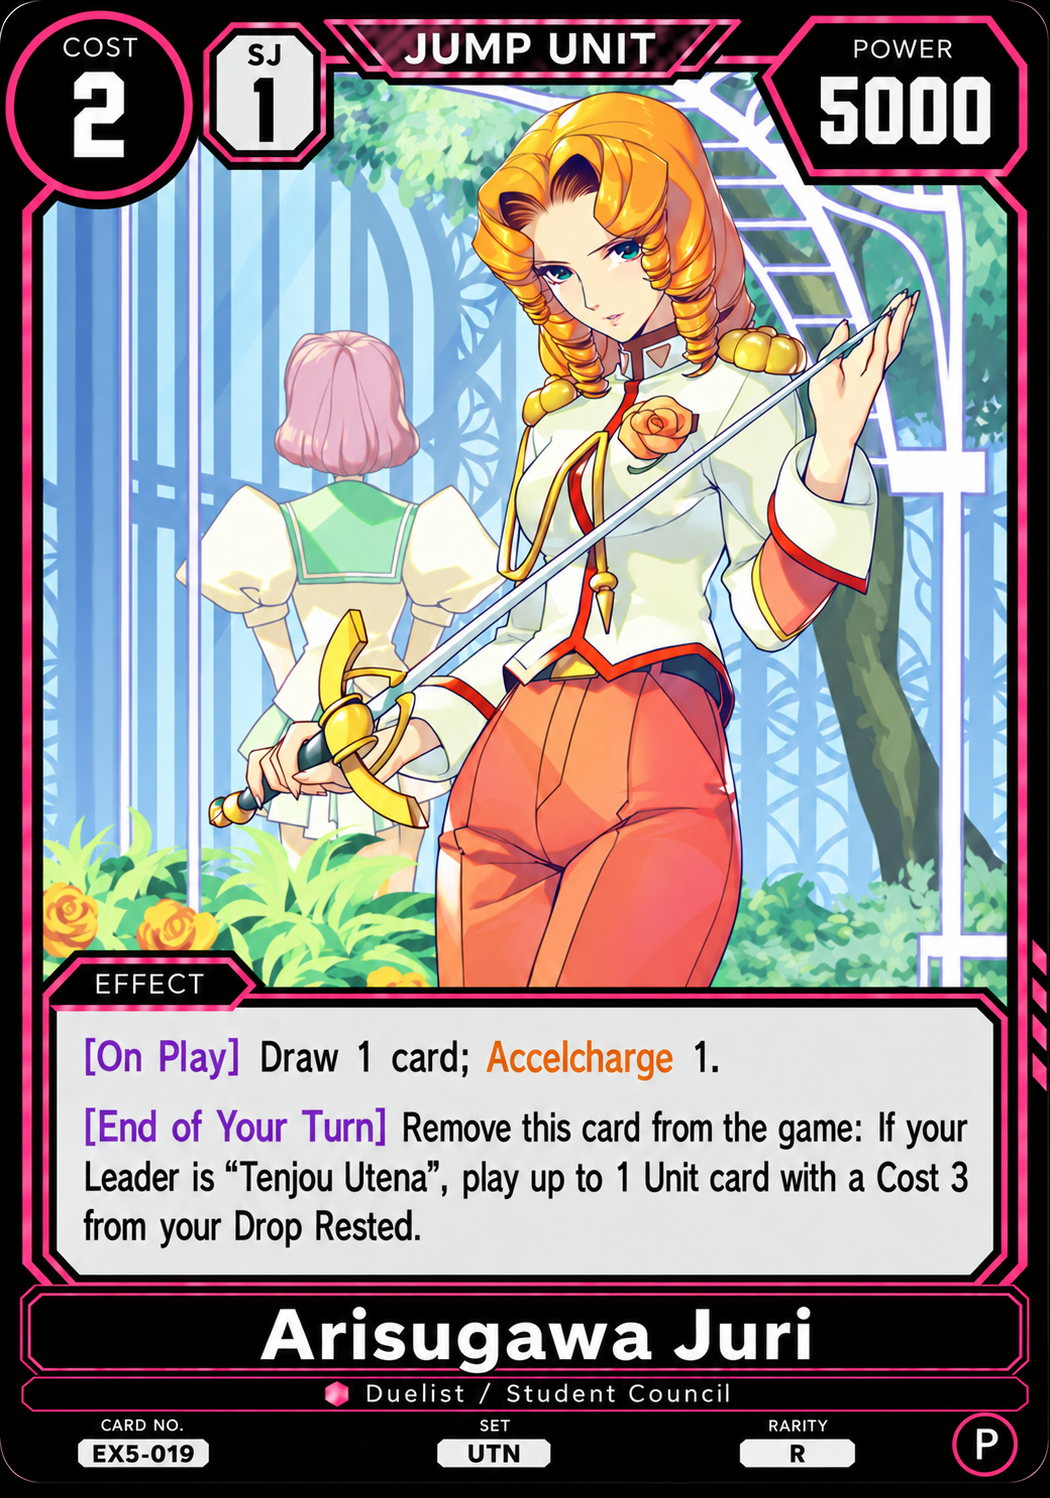
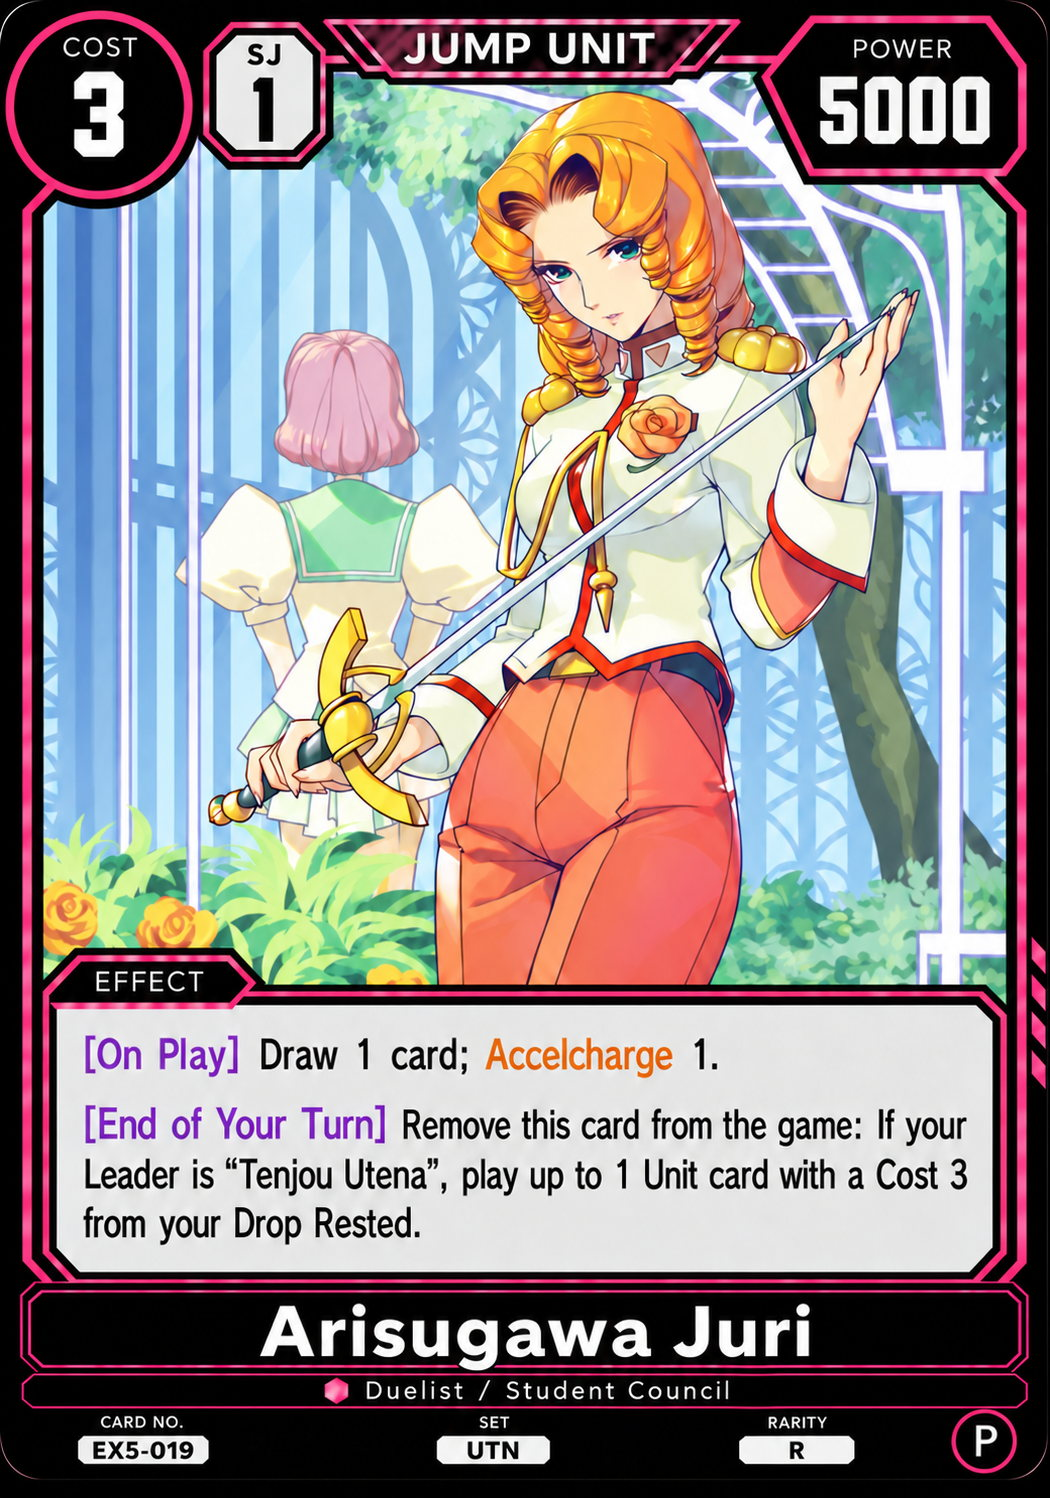
Refresh Budding Jubilation, Anthy, and Juri prints

diff --git a/card-text-data.js b/card-text-data.js
@@ -2289,8 +2289,8 @@ window.SJTCG_CARD_TEXT = {
     "set": "SMK",
     "rarity": "C",
     "bottom_right_circle": "B",
-    "effect": "Clash [Activate: Battle] Give your card that's in a battle Revenge for the battle. Then, if your Unit is removed from your field at the end of the battle, draw 1 card.",
-    "effect_html": "<span class=\"kw kw-green\" title=\"Clash\">Clash</span> <span class=\"kw kw-purple\" title=\"Timing window\">[Activate: Battle]</span> Give your card that&#x27;s in a battle <span class=\"kw kw-red\" title=\"Revenge\">Revenge</span> for the battle. Then, if your Unit is removed from your field at the end of the battle, draw 1 card.",
+    "effect": "Clash [Activate: Battle] Give your Unit that's in a battle Revenge for the battle. Then, if its removed from your field at the end of the battle, draw 1 card.",
+    "effect_html": "<span class=\"kw kw-green\" title=\"Clash\">Clash</span> <span class=\"kw kw-purple\" title=\"Timing window\">[Activate: Battle]</span> Give your Unit that&#x27;s in a battle <span class=\"kw kw-red\" title=\"Revenge\">Revenge</span> for the battle. Then, if its removed from your field at the end of the battle, draw 1 card.",
     "notes": "",
     "transcription_status": "verified",
     "release": "ST1",
@@ -16432,7 +16432,7 @@ window.SJTCG_CARD_TEXT = {
     "card_no": "EX5-019",
     "name": "Arisugawa Juri",
     "color": "Pink",
-    "cost": "2",
+    "cost": "3",
     "sj_cost": "1",
     "life": "",
     "power": "5000",
@@ -16464,8 +16464,8 @@ window.SJTCG_CARD_TEXT = {
     "set": "UTN",
     "rarity": "R",
     "bottom_right_circle": "P",
-    "effect": "Blocker\n[On Play] Give your Leader Revenge until the end of your Opponent's next turn. Then, remove this card from the game at the end of your Opponent's next turn.",
-    "effect_html": "<span class=\"kw kw-red\" title=\"Blocker\">Blocker</span><br><span class=\"kw kw-purple\" title=\"Timing window\">[On Play]</span> Give your Leader <span class=\"kw kw-red\" title=\"Revenge\">Revenge</span> until the end of your Opponent&#x27;s next turn. Then, remove this card from the game at the end of your Opponent&#x27;s next turn.",
+    "effect": "Blocker\n[On Play] Give 1 of your Units Revenge until the end of your Opponent's next turn. Then, remove this card from the game at the end of your Opponent's next turn.",
+    "effect_html": "<span class=\"kw kw-red\" title=\"Blocker\">Blocker</span><br><span class=\"kw kw-purple\" title=\"Timing window\">[On Play]</span> Give 1 of your Units <span class=\"kw kw-red\" title=\"Revenge\">Revenge</span> until the end of your Opponent&#x27;s next turn. Then, remove this card from the game at the end of your Opponent&#x27;s next turn.",
     "notes": "",
     "transcription_status": "verified",
     "release": "EX5",

diff --git a/cards-data.js b/cards-data.js
@@ -1366,7 +1366,7 @@ window.SJTCG_CARD_DATA = [
     "cardType": "Main Deck",
     "deckLimit": 4,
     "orientation": "Portrait",
-    "imageVersion": "26a5d914db09"
+    "imageVersion": "80c518774be9"
   },
   {
     "number": "ST1-101",
@@ -9498,7 +9498,7 @@ window.SJTCG_CARD_DATA = [
     "cardType": "Main Deck",
     "deckLimit": 1,
     "orientation": "Portrait",
-    "imageVersion": "c9b98982c324"
+    "imageVersion": "3fd6aca76cc4"
   },
   {
     "number": "EX5-020",
@@ -9510,7 +9510,7 @@ window.SJTCG_CARD_DATA = [
     "cardType": "Main Deck",
     "deckLimit": 1,
     "orientation": "Portrait",
-    "imageVersion": "1b1350f3c35f"
+    "imageVersion": "4dafbe81a0d0"
   },
   {
     "number": "EX5-021",

diff --git a/index.html b/index.html
@@ -214,8 +214,8 @@
     </section>
   </div>
 
-  <script src="cards-data.js?v=13be4dc544d3"></script>
-  <script src="card-text-data.js?v=ce7e6a5267ef"></script>
+  <script src="cards-data.js?v=df600950962d"></script>
+  <script src="card-text-data.js?v=007ca663c5e5"></script>
   <script src="app.js?v=20261009-reprint-search-2"></script>
 </body>
 </html>
